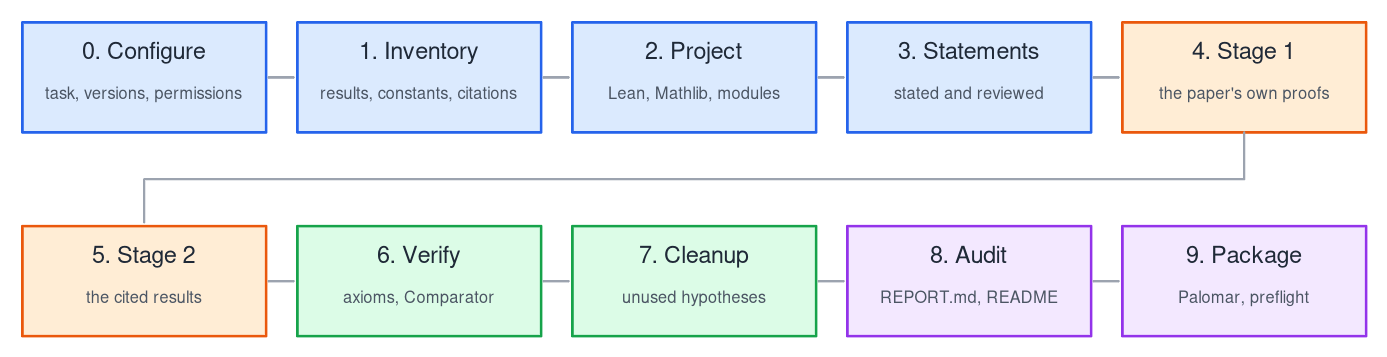
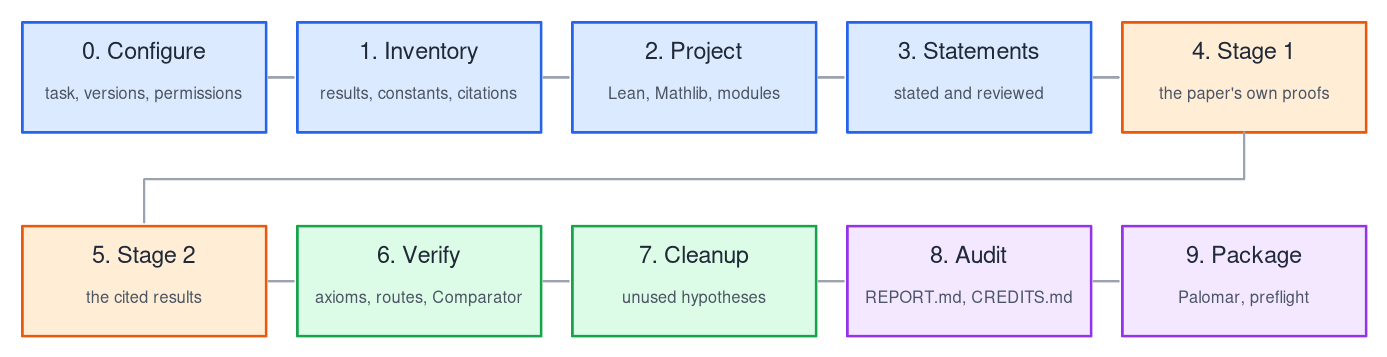
formalize-math-paper: bring the page up to version 2.1.0 of the skill
Proofs follow the paper's arguments and every departure is reported;
the route check; the report's What's next, with simpler proofs;
CREDITS.md. The figure's Verify and Audit boxes name the route check
and CREDITS.md. The moving-sofa example says it was made with earlier
versions of the skill.

Changed region(s): [[0.62, 0.8011, 0.7751, 0.8627], [0.217, 0.8011, 0.372, 0.8627]]

diff --git a/_projects/6_formalize_math_paper.md b/_projects/6_formalize_math_paper.md
@@ -16,7 +16,7 @@ repository:
 
 [formalize-math-paper](https://github.com/vltanh/formalize-math-paper) is an [Agent Skill](https://agentskills.io): instructions, reference guides and scripts that an AI coding agent loads when you ask it to formalize a mathematics paper in [Lean 4](https://lean-lang.org/) with [Mathlib](https://leanprover-community.github.io/). It works with any agent that reads the `SKILL.md` format, among them Claude Code, OpenAI Codex, Gemini CLI, Google Antigravity, GitHub Copilot and Cursor. An arXiv link is enough to start.
 
-Agents can now write a lot of Lean, but a formalization is only worth something if its statements say what the paper says. Left alone, an agent drifts: it restates a theorem in a slightly weaker form when the proof gets hard, adds a hypothesis that makes a step go through, guesses a Mathlib lemma name, or declares an axiom and moves on. The skill is the discipline that keeps a long formalization honest, written down so that an agent follows it from start to finish.
+Agents can now write a lot of Lean, but a formalization is only worth something if its statements say what the paper says and its proofs check the paper's arguments. Left alone, an agent drifts: it restates a theorem in a slightly weaker form when the proof gets hard, adds a hypothesis that makes a step go through, swaps the paper's argument for one that is easier to formalize, guesses a Mathlib lemma name, or declares an axiom and moves on. The skill is the discipline that keeps a long formalization honest, written down so that an agent follows it from start to finish.
 
 ## The workflow
 
@@ -26,23 +26,28 @@ Agents can now write a lot of Lean, but a formalization is only worth something 
   </div>
 </div>
 
-The agent first reads the whole paper, preferably its TeX source, and records every result, constant and citation, with the typos it suspects. It sets up a Lean project and states every result before proving any, and a second agent checks each statement against the TeX source. Only then do the proofs start: first everything the paper proves (Stage 1), then the results it cites (Stage 2). A cited result that no Lean library can support becomes a visible hypothesis of the theorems that use it, and the formalization says plainly that it is conditional. Large formalizations are split among sub-agents by file, and every statement is then compared with the reviewed baseline, so that no agent can quietly change one.
+The agent first searches for newer versions of the paper (a later arXiv version, the published version, errata) and for earlier formalizations of it. It then reads the whole paper, preferably its TeX source, and records every result, constant and citation, with the typos it suspects. It sets up a Lean project and states every result before proving any, and a second agent checks each statement against the TeX source.
 
-Then come the checks: every declaration may use only Lean's three standard axioms, and [Comparator](https://github.com/leanprover/comparator) confirms that the proofs prove exactly the statements of record. The agent writes an audit of the paper, `REPORT.md`, with every error, gap and redundant hypothesis it found, each checked against the TeX source by a reader other than the one who found it. It packages the project for the [Palomar registry](https://palomar-registry.org) and, with your permission, publishes it and runs Palomar's preflight. Along the way it keeps a run log, and the README reports how the formalization was made: the procedure, the agents and models, the time and the effort.
+Only then do the proofs start: first everything the paper proves (Stage 1), then the results it cites (Stage 2). Each proof follows the paper's own argument, with the same intermediate claims, constructions and cited results. It departs from the paper only when it must: the paper's step is wrong, needs mathematics that Lean lacks, or has no meaning in the formalization's representation. A shorter or more elegant proof is not a reason. Every departure is reported, with its reason, in the code, the report and the metadata. A cited result that no Lean library can support becomes a visible hypothesis of the theorems that use it, and the formalization says plainly that it is conditional. Large formalizations are split among sub-agents by file, and every statement is then compared with the reviewed baseline, so that no agent can quietly change one.
+
+Then come the checks. Every declaration may use only Lean's three standard axioms. A route check compares, for every numbered result, the results its formal proof uses with the results the paper's proof cites, read from the TeX source, and a reader other than the provers compares the proofs with the paper's. [Comparator](https://github.com/leanprover/comparator) confirms that the proofs prove exactly the statements of record. The cleanup that follows removes unused hypotheses and warnings without changing any proof's argument.
+
+The agent then writes an audit of the paper, `REPORT.md`, with every error, gap and redundant hypothesis it found and every departure from the paper's proofs, each checked against the TeX source by a reader other than the one who found it. The report ends with _What's next_: what later work has proved, from a dated search that gives each source's status (published, preprint, withdrawn or disputed); ways to extend, generalize or strengthen the paper's results, each with what would have to be proved; and where the paper's proofs could be simpler. Since the formal proofs must follow the paper's arguments, a simpler argument that an agent finds along the way is not used but recorded, checked, and reported there. Later work that corrects the paper counts as a finding of the audit. All along, the agent keeps a run log, and `CREDITS.md` reports how the formalization was made: the procedure, the agents and models, the time and the effort. Finally it packages the project for the [Palomar registry](https://palomar-registry.org) and, with your permission, publishes it and runs Palomar's preflight.
 
 ## Principles
 
 A few rules carry most of the weight:
 
-- The paper is the source of truth for statements, and Lean for proofs. A statement never changes to make a proof go through; if the paper's statement is false, the agent stops and shows you the counterexample.
+- The paper is the source of truth for statements and arguments, and Lean judges correctness. A statement never changes to make a proof go through; if the paper's statement is false, the agent stops and shows you the counterexample.
+- A formalization checks the paper's proofs, not only its claims. Each proof follows the paper's argument, and departs from it only when it must, saying where and why.
 - A formalization nobody compiled is a draft. Names and signatures are checked against the pinned Mathlib, never guessed.
 - Cited results are proved like everything else; "standard" and "routine" still need proofs.
 - Every choice of representation gets a lemma that connects it to the paper's object.
-- Report faithfully: a skipped step, a failing proof or a changed statement is said, not smoothed over.
+- Report faithfully: a skipped step, a failing proof, a changed statement or a departure from the paper's proof is said, not smoothed over.
 
 ## Example: the moving sofa
 
-The skill was used for, and refined on, the [formalization of Baek's proof that Gerver's sofa is optimal](/projects/lean4-moving-sofa/). Baek's paper is 119 pages long. Following the skill, one coordinating Claude Opus 5.5 agent and 19 sub-agents formalized every numbered result of the paper and the results it cites, and wrote the audit, in about four hours of wall-clock time. The same procedure then turned ChatGPT Pro 6's uncompiled Lean draft of a new uniqueness proof into a complete formal proof. The repository, [vltanh/lean4-moving-sofa](https://github.com/vltanh/lean4-moving-sofa), shows every artifact the skill produces: the Challenge and Solution, the audit, the [run log](https://github.com/vltanh/lean4-moving-sofa/blob/main/docs/contributors.md), and the Palomar packaging.
+The skill was used for, and refined on, the [formalization of Baek's proof that Gerver's sofa is optimal](/projects/lean4-moving-sofa/). Baek's paper is 119 pages long. Following the skill, one coordinating Claude Opus 5.5 agent and 19 sub-agents formalized every numbered result of the paper and the results it cites, and wrote the audit, in about four hours of wall-clock time. The same procedure then turned ChatGPT Pro 6's uncompiled Lean draft of a new uniqueness proof into a complete formal proof. The repository, [vltanh/lean4-moving-sofa](https://github.com/vltanh/lean4-moving-sofa), shows the Challenge and Solution, the audit, the [run log](https://github.com/vltanh/lean4-moving-sofa/blob/main/docs/contributors.md), and the Palomar packaging. It was made with earlier versions of the skill; later versions added the route check, the report's What's next section and `CREDITS.md`.
 
 ## Install
 
